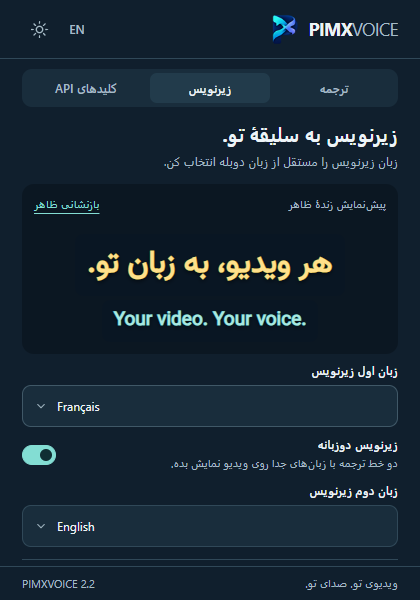
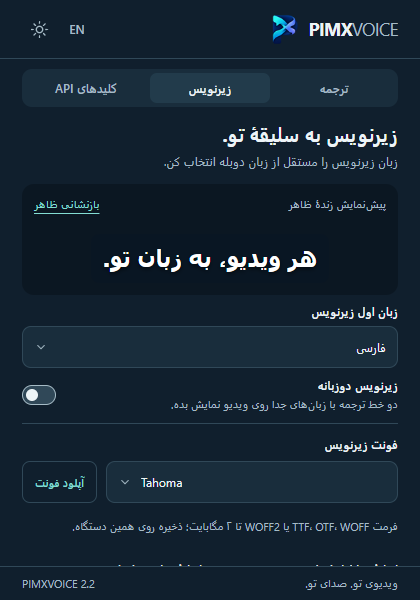
docs: match extension screenshots to each README language

diff --git a/README.md b/README.md
@@ -22,9 +22,9 @@ Choose **dubbing**, **subtitles**, or **both**. Set the narration language indep
 
 Actual captures of the extension interface. The subtitle preview is sample text; it is not a measured translation benchmark.
 
-| Translation · English | Translation · فارسی | Subtitle styling · فارسی |
-|:---:|:---:|:---:|
-| <img src="assets/readme/translation-en.png" width="280" alt="English popup with output mode, dubbing language and narrator controls" /> | <img src="assets/readme/translation-fa.png" width="280" alt="Persian popup with translation controls" /> | <img src="assets/readme/subtitles-fa.png" width="280" alt="Persian subtitle customization panel" /> |
+| Translation | Subtitle styling |
+|:---:|:---:|
+| <img src="assets/readme/translation-en.png" width="360" alt="PIMXVOICE English translation controls" /> | <img src="assets/readme/subtitles-en.png" width="360" alt="PIMXVOICE English subtitle settings and preview" /> |
 
 ## One tab. Three ways to follow it.
 
@@ -114,7 +114,7 @@ Optional UI checks use Python + Playwright: `python scripts/browser-v2.py`. Live
 
 ## Artwork and credits
 
-The animated hero is an original Three.js scene: an audio waveform enters a browser player and becomes two subtitle tracks. GitHub displays its rendered GIF; the portfolio also has an interactive scene for this project. Artwork is illustrative, not a live API demonstration.
+The animated hero is an original Three.js scene: an audio waveform enters a browser player and becomes two subtitle tracks. GitHub displays its rendered GIF; the portfolio displays actual captures of the extension interface. Artwork is illustrative, not a live API demonstration.
 
 The logo was made with ImageGen; its provenance is in [assets/logo-prompt.txt](assets/logo-prompt.txt). Vazirmatn is bundled under the [SIL Open Font License](fonts/OFL.txt).
 

diff --git a/README.fa.md b/README.fa.md
@@ -12,6 +12,14 @@
 
 زبان پیشفرض نصب تازه انگلیسی است؛ دکمهٔ زبان در بالای پنجره، رابط را فارسی میکند. زبان انتخابشدهٔ قبلی هنگام بهروزرسانی حفظ میشود.
 
+## نمای واقعی افزونه
+
+تصاویر زیر با رابط فارسی گرفته شدهاند. متن پیشنمایش نمونهٔ ظاهری است.
+
+| ترجمه | تنظیم ظاهر زیرنویس |
+|:---:|:---:|
+| <img src="assets/readme/translation-fa.png" width="360" alt="رابط فارسی تب ترجمهٔ افزونهٔ PIMXVOICE" /> | <img src="assets/readme/subtitles-fa.png" width="360" alt="رابط فارسی تنظیمات و پیشنمایش زیرنویس افزونهٔ PIMXVOICE" /> |
+
 ## نصب یا بهروزرسانی
 
 1. فایل `pimxvoice-2.2.0.zip` را استخراج کنید.
